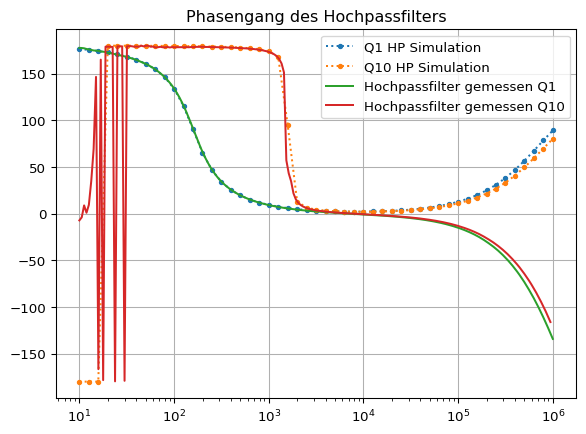
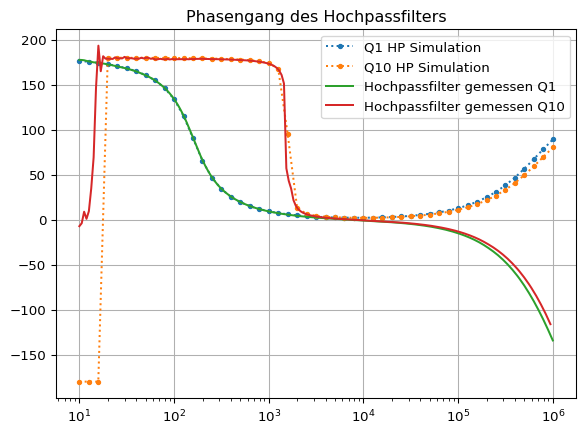
Erlich Formel Hinzugefügt

diff --git a/index.html b/index.html
@@ -2,7 +2,7 @@
 <html xmlns="http://www.w3.org/1999/xhtml" lang="de" xml:lang="de"><head>
 
 <meta charset="utf-8">
-<meta name="generator" content="quarto-1.7.31">
+<meta name="generator" content="quarto-1.7.24">
 
 <meta name="viewport" content="width=device-width, initial-scale=1.0, user-scalable=yes">
 
@@ -88,10 +88,10 @@ div.csl-indent {
 <script src="index_files/libs/quarto-html/tippy.umd.min.js"></script>
 <script src="index_files/libs/quarto-html/anchor.min.js"></script>
 <link href="index_files/libs/quarto-html/tippy.css" rel="stylesheet">
-<link href="index_files/libs/quarto-html/quarto-syntax-highlighting-e1a5c8363afafaef2c763b6775fbf3ca.css" rel="stylesheet" id="quarto-text-highlighting-styles">
+<link href="index_files/libs/quarto-html/quarto-syntax-highlighting-a37c72dd2dbac68997fcdc15a3622e78.css" rel="stylesheet" id="quarto-text-highlighting-styles">
 <script src="index_files/libs/bootstrap/bootstrap.min.js"></script>
 <link href="index_files/libs/bootstrap/bootstrap-icons.css" rel="stylesheet">
-<link href="index_files/libs/bootstrap/bootstrap-dc44167a0b6d28f4847139e5925e902e.min.css" rel="stylesheet" append-hash="true" id="quarto-bootstrap" data-mode="light">
+<link href="index_files/libs/bootstrap/bootstrap-63053770681cd859736509ad0a841bee.min.css" rel="stylesheet" append-hash="true" id="quarto-bootstrap" data-mode="light">
 
   <script src="https://cdnjs.cloudflare.com/polyfill/v3/polyfill.min.js?features=es6"></script>
   <script src="https://cdn.jsdelivr.net/npm/mathjax@3/es5/tex-chtml-full.js" type="text/javascript"></script>
@@ -170,7 +170,7 @@ window.Quarto = {
     <div>
     <div class="quarto-title-meta-heading">Veröffentlichungsdatum</div>
     <div class="quarto-title-meta-contents">
-      <p class="date">14. Juni 2025</p>
+      <p class="date">17. Juni 2025</p>
     </div>
   </div>
   
@@ -232,7 +232,92 @@ window.Quarto = {
 <h1 data-number="3"><span class="header-section-number">3</span> Filter-Entwurf</h1>
 <section id="herleitung-der-übertragungsfunktion-des-biquad-filters" class="level2" data-number="3.1">
 <h2 data-number="3.1" class="anchored" data-anchor-id="herleitung-der-übertragungsfunktion-des-biquad-filters"><span class="header-section-number">3.1</span> Herleitung der Übertragungsfunktion des Biquad Filters</h2>
-<p>TODO: Wolte Erlich machen</p>
+<p>In der oberen Schaltung aus Kicad sind die blauen Spannungen , die sie für uns interessant sind.</p>
+<p>Die KHN-Struktur liefert vier Ausgänge: Hochpass ( V_{01}(s) ), Bandpass ( V_{02}(s) ) , Tiefpass ( V_{03}(s) ) und Bandsperre ( V_{04}(s) ).</p>
+<p>Ziel ist die Herleitung der Hochpass-Übertragungsfunktion:</p>
+<p><span class="math display">\[\begin{equation}
+H_{LP}(s) = \frac{V_{01}(s)}{V_{i}(s)}
+\label{eq:HLP_def}
+\end{equation}\]</span></p>
+<p>Die Struktur besteht aus 2 Integratoren und 2 invertierenden Addierern . Daraus kann man folgende grundlegende Formeln herleiten :</p>
+<p><span class="math display">\[\begin{equation}
+V_{02}(s) = \frac{-1}{sRC} \cdot V_{01}(s)
+\label{eq:0P1}
+\end{equation}\]</span></p>
+<p><span class="math display">\[\begin{equation}
+V_{03}(s) = \frac{-1}{sRC} \cdot V_{02}(s)
+\label{eq:0P2}
+\end{equation}\]</span></p>
+<p><span class="math display">\[\begin{equation}
+V_{01}(s) = \frac{-R}{R} \cdot (V_{03}(s)+ V_{04}(s) ) = - (V_{03}(s)+ V_{04}(s) )
+\label{eq:0P3}
+\end{equation}\]</span></p>
+<p><span class="math display">\[\begin{equation}
+V_{04}(s) = \frac{-R}{R} \cdot ( \frac{V_{02}(s)}{Q} + V_{i}(s)\cdot H_{0} ) = - ( \frac{V_{02}(s)}{Q} + V_{i}(s)\cdot H_{0} )
+\label{eq:0P4}
+\end{equation}\]</span></p>
+<p>Im nächsten Schritt wollen wir die Gleichungen ineinander einsetzen :</p>
+<p>Nun setzen wir <span class="math inline">\(\eqref{eq:0P1}\)</span> in <span class="math inline">\(\eqref{eq:0P2}\)</span> ein:</p>
+<p><span class="math inline">\(\eqref{eq:0P1}\)</span> in <span class="math inline">\(\eqref{eq:0P2}\)</span> $ $ <span class="math display">\[\begin{equation}
+V_{03}(s) = \frac{1}{(sRC)^2} \cdot V_{01}(s)
+\label{eq:0P5}
+\end{equation}\]</span></p>
+<p><span class="math inline">\(\eqref{eq:0P2}\)</span> in <span class="math inline">\(\eqref{eq:0P3}\)</span> $ $ <span class="math display">\[\begin{equation}
+V_{01}(s) = - \left( V_{01}\cdot  \frac{1}{(sRC)^2} +  V_{04} \right)
+\label{eq:0P6}
+\end{equation}\]</span></p>
+<p><span class="math inline">\(\eqref{eq:0P1}\)</span> in <span class="math inline">\(\eqref{eq:0P4}\)</span> $ $</p>
+<p><span class="math display">\[\begin{equation}
+V_{04}(s) = -  ( \frac{\frac{-1}{sRC}}{Q} + V_{i}(s)\cdot H_{0} )
+\label{eq:0P7}
+\end{equation}\]</span></p>
+<p><span class="math inline">\(\eqref{eq:0P6}\)</span> $ $ <span class="math display">\[\begin{equation}
+V_{04}(s) = -V_{01} \left( 1 +  \frac{1}{(sRC)^2}  \right)
+\label{eq:0P8}
+\end{equation}\]</span></p>
+<p><span class="math inline">\(\eqref{eq:0P7}\)</span> und <span class="math inline">\(\eqref{eq:0P8}\)</span> $ $ <span class="math display">\[\begin{equation}
+V_{01}(s) \cdot \frac{1}{sRCQ} - H_{0}\cdot V_{i} = -V_{01} \left( 1 +  \frac{1}{(sRC)^2}  \right)
+\label{eq:0P9}
+\end{equation}\]</span></p>
+<p>$ $</p>
+<p><span class="math display">\[\begin{equation}
+    V_{01} \left( 1 +  \frac{1}{(sRC)^2} + \frac{1}{sRCQ}  \right)  = H_{0}\cdot V_{i}
+\label{eq:0P9}
+\end{equation}\]</span></p>
+<p>$ $</p>
+<p><span class="math display">\[\begin{equation}
+    \frac{V_{01}}{V_{i}} = \frac{H_{0}}{\left( 1 +  \frac{1}{(sRC)^2} + \frac{1}{sRCQ}  \right)  }
+\label{eq:0P10}
+\end{equation}\]</span></p>
+<p>Da <span class="math inline">\(\omega_{0} = \frac{1}{RC}\)</span> ergibt sich :</p>
+<p><span class="math display">\[\begin{equation}
+    \frac{V_{01}}{V_{i}} = \frac{H_{0}}{\left( 1 +  \frac{ (\omega_{0})^2 }{(s^2}  + \frac{\omega_{0}}{s\cdot Q}  \right)  }
+\label{eq:0P11}
+\end{equation}\]</span></p>
+<p>Multipliziert man mit <span class="math inline">\(s^2\)</span> ergibt sich : <span class="math display">\[\begin{equation}
+    \frac{V_{01}}{V_{i}} = \frac{H_{0} \cdot(s^2)}{\left( s^2 +  \omega_{0}^2  + \omega_{0} \frac{s}{Q} \right)  }
+\label{eq:0P12}
+\end{equation}\]</span> Teilt man oben und unten durch <span class="math inline">\(\omega_{0}^2\)</span> ergibt sich endlich :</p>
+<p><span class="math display">\[\begin{equation}
+    \frac{V_{01}}{V_{i}} = \frac{H_{0} \frac{s^2}{\omega_{0}^2}}{\left( \frac{s^2}{\omega_{0}^2}  +  1  + \frac{s}{ \omega_{0} \cdot Q }  \right)  }
+\label{eq:0P13}
+\end{equation}\]</span></p>
+<p>was die gesuchte Übertragungsfunktion darstellt.</p>
+<p>Verfährt man auf eine ähnliche Art und Weise gelangt man auch zu den anderen Übertragungsfunktionen für den Tiefpass , den Bandpass und die Bandsperre :</p>
+<p>Für den Bandpass : <span class="math display">\[\begin{equation}
+    \frac{V_{02}}{V_{i}} = \frac{H_{0} \frac{s}{\omega_{0}}}{\left( \frac{s^2}{\omega_{0}^2}  +  1  + \frac{s}{ \omega_{0} \cdot Q }  \right)  }
+\label{eq:0P14}
+\end{equation}\]</span></p>
+<p>Für den Tiefpass :</p>
+<p><span class="math display">\[\begin{equation}
+    \frac{V_{03}}{V_{i}} = \frac{H_{0}}{\left( \frac{s^2}{\omega_{0}^2}  +  1  + \frac{s}{ \omega_{0} \cdot Q }  \right)  }
+\label{eq:0P15}
+\end{equation}\]</span></p>
+<p>und für die Bandsperre :</p>
+<p><span class="math display">\[\begin{equation}
+    \frac{V_{04}}{V_{i}} = \frac{H_{0} \cdot(1 + \frac{s^2}{\omega_{0}^2})}{\left( \frac{s^2}{\omega_{0}^2}  +  1  + \frac{s}{ \omega_{0} \cdot Q }  \right)  }
+\label{eq:0P13}
+\end{equation}\]</span></p>
 </section>
 <section id="herleitung-der-übertragungsfunktion-tiefpassfilter-dritter-ordnung" class="level2" data-number="3.2">
 <h2 data-number="3.2" class="anchored" data-anchor-id="herleitung-der-übertragungsfunktion-tiefpassfilter-dritter-ordnung"><span class="header-section-number">3.2</span> Herleitung der Übertragungsfunktion Tiefpassfilter dritter Ordnung</h2>
@@ -249,6 +334,7 @@ window.Quarto = {
 <p><span class="math inline">\(H_{BW3}(s) = \frac{H_0 \cdot (\omega_0)^3}{s^3 + s^2(\omega_0+\frac{\omega_0}{Q})+s(\frac{(\omega_0)^2}{Q}+(\omega_0)^2) +(\omega_0)^3}\)</span></p>
 <p>Um diese Gewünschte Übertragungsfunktion zu erhalten muss der Term … an den Tiefpassfilter in der Schaltung dazu geschaltet werden. Der Term… wird mit der Übertragungsfunktion … Realisiert die daraus Resuliertende schaltung und die Gesammtschaltung ist in Abbildung… gezeigt.</p>
 <p><span class="math inline">\(\frac{\omega_0}{\omega_0 +s} = -\frac{R_2}{R_1} \cdot \frac{\frac{1}{R_{com} \cdot C_{com}}}{R_{com} \cdot C_{com} +s} \cdot -\frac{R_2}{R_1}\)</span></p>
+<p>\begin{}</p>
 </section>
 </section>
 <section id="messautomatisierung" class="level1" data-number="4">
@@ -259,7 +345,7 @@ window.Quarto = {
 <!-- [Biquadschaltung](../images/Biquadschaltung.png){#fig-map}
 
 Die in **Abbildung 1**  gezeigt schaltung wird in diesem Abschnit der Dokumentation behandelt. Es handelt sich hierbei um ein Universellen Biquad Filter welcher 4 Filter Typen in einem Realisiert. Eine wichtiger Parameter von Filtern ist die Güte dies lässt sich mit dem Widerstand R5 einstellen. Bei steigender güte sinkt je nach Filter Type entweder die Bandbreite z.B. beim Notchfilter (bandsperre) oder beim Bandpass und beim Tiefpassfilter bzw Hochapssfilter die Übergangsfrequenz sprich die breite.-->
-<div id="f9989021" class="cell" data-execution_count="1">
+<div id="dbab0ec5" class="cell" data-execution_count="1">
 <details class="code-fold">
 <summary>Code anzeigen</summary>
 <div class="sourceCode cell-code" id="cb1"><pre class="sourceCode python code-with-copy"><code class="sourceCode python"><span id="cb1-1"><a href="#cb1-1" aria-hidden="true" tabindex="-1"></a><span class="im">import</span> matplotlib.pyplot <span class="im">as</span> plt</span>
@@ -268,7 +354,7 @@ Die in **Abbildung 1**  gezeigt schaltung wird in diesem Abschnit der Dokumentat
 <span id="cb1-4"><a href="#cb1-4" aria-hidden="true" tabindex="-1"></a><span class="im">import</span> pandas <span class="im">as</span> pd</span></code><button title="In die Zwischenablage kopieren" class="code-copy-button"><i class="bi"></i></button></pre></div>
 </details>
 </div>
-<div id="317bcb1d" class="cell" data-execution_count="2">
+<div id="02ae976a" class="cell" data-execution_count="2">
 <details class="code-fold">
 <summary>Code anzeigen</summary>
 <div class="sourceCode cell-code" id="cb2"><pre class="sourceCode python code-with-copy"><code class="sourceCode python"><span id="cb2-1"><a href="#cb2-1" aria-hidden="true" tabindex="-1"></a><span class="co"># Messwerte Tiefpassfilter mit Q1</span></span>
@@ -320,7 +406,7 @@ Die in **Abbildung 1**  gezeigt schaltung wird in diesem Abschnit der Dokumentat
 <span id="cb2-47"><a href="#cb2-47" aria-hidden="true" tabindex="-1"></a>phaseBSFQ10 <span class="op">=</span> np.array(dfBSFQ10[<span class="st">' Phase [deg]'</span>])</span></code><button title="In die Zwischenablage kopieren" class="code-copy-button"><i class="bi"></i></button></pre></div>
 </details>
 </div>
-<div id="00532eaa" class="cell" data-execution_count="3">
+<div id="4d2590a1" class="cell" data-execution_count="3">
 <details class="code-fold">
 <summary>Code anzeigen</summary>
 <div class="sourceCode cell-code" id="cb3"><pre class="sourceCode python code-with-copy"><code class="sourceCode python"><span id="cb3-1"><a href="#cb3-1" aria-hidden="true" tabindex="-1"></a><span class="co"># -----------------------------------Einladen der Simulations Werte -----------------------------------------</span></span>
@@ -350,7 +436,7 @@ Die in **Abbildung 1**  gezeigt schaltung wird in diesem Abschnit der Dokumentat
 </div>
 <section id="tiefpassfilter" class="level2" data-number="5.1">
 <h2 data-number="5.1" class="anchored" data-anchor-id="tiefpassfilter"><span class="header-section-number">5.1</span> Tiefpassfilter</h2>
-<div id="3749f138" class="cell" data-execution_count="4">
+<div id="46163deb" class="cell" data-execution_count="4">
 <details class="code-fold">
 <summary>Code anzeigen</summary>
 <div class="sourceCode cell-code" id="cb4"><pre class="sourceCode python code-with-copy"><code class="sourceCode python"><span id="cb4-1"><a href="#cb4-1" aria-hidden="true" tabindex="-1"></a>plt.figure(<span class="st">"Amplitudengang des Tiefpass filters"</span>)</span>
@@ -383,7 +469,7 @@ Die in **Abbildung 1**  gezeigt schaltung wird in diesem Abschnit der Dokumentat
 <section id="spezielle-effekte-bei-hohen-frequenzen" class="level3" data-number="5.1.3">
 <h3 data-number="5.1.3" class="anchored" data-anchor-id="spezielle-effekte-bei-hohen-frequenzen"><span class="header-section-number">5.1.3</span> Spezielle Effekte bei hohen Frequenzen</h3>
 <p>Bei Frequenzen deutlich über der Grenzfrequenz kommen zusätzliche Effekte zum Tragen: - Die Filtersteilheit realer Filter kann von den theoretischen abweichen. - Belastungseffekte durch nachfolgeden Stufen verändern die Filtercharakteristik. Wenn beispielsweise ein Hochpass an einen Tiefpass angeschlossen wird, verändert sich das Übertragungsverhalten durch die Parallelschaltung. Diese Beobachtungen decken sich mit der Grafik, die deutliche Unterschiede zwischen Suimulation und Messung im Breich ab 10kHz zeigt, insbesondere bei der Tiefe der Dämpfungskurve und dem erneuten Anstieg bei sehr hohen Frequenzen.</p>
-<div id="455b91ef" class="cell" data-execution_count="5">
+<div id="eeb0a1d4" class="cell" data-execution_count="5">
 <details class="code-fold">
 <summary>Code anzeigen</summary>
 <div class="sourceCode cell-code" id="cb5"><pre class="sourceCode python code-with-copy"><code class="sourceCode python"><span id="cb5-1"><a href="#cb5-1" aria-hidden="true" tabindex="-1"></a>plt.figure(<span class="st">"Phasengang des Tiefpass filters"</span>)</span>
@@ -409,7 +495,7 @@ Die in **Abbildung 1**  gezeigt schaltung wird in diesem Abschnit der Dokumentat
 </section>
 <section id="hochpassfilter" class="level2" data-number="5.2">
 <h2 data-number="5.2" class="anchored" data-anchor-id="hochpassfilter"><span class="header-section-number">5.2</span> Hochpassfilter</h2>
-<div id="c8d4ffe6" class="cell" data-execution_count="6">
+<div id="0ef93a87" class="cell" data-execution_count="6">
 <details class="code-fold">
 <summary>Code anzeigen</summary>
 <div class="sourceCode cell-code" id="cb6"><pre class="sourceCode python code-with-copy"><code class="sourceCode python"><span id="cb6-1"><a href="#cb6-1" aria-hidden="true" tabindex="-1"></a>plt.figure(<span class="st">"Amplitudengang des Hochpassfilters"</span>)</span>
@@ -438,19 +524,20 @@ Die in **Abbildung 1**  gezeigt schaltung wird in diesem Abschnit der Dokumentat
 <section id="dokumentierte-abweichungen-1" class="level3" data-number="5.2.2">
 <h3 data-number="5.2.2" class="anchored" data-anchor-id="dokumentierte-abweichungen-1"><span class="header-section-number">5.2.2</span> Dokumentierte Abweichungen</h3>
 <p>Im angezeigten Amplitudengang des Hochpassfilters sind mehrere charakteristische Abweichungen erkennbar: - Starker Einbruch bei Q1-Messung: Die rote Linie (gemessener Q1-Hochpass) zeigt bei etwa 20-30 Hz einen markanten Einbruch auf fast -110 dB, der in der Simulation nicht vorkommt. Dies deutet auf resonante Effekte zwischen den realen Bauteilen hin - Flacherer Anstieg bei niedrigen Frequenzen: Der Anstieg der gemessenen Kurven (rot und grün) ist bei sehr niedrigen Frequenzen weniger steil als bei den simulierten Kurven, was auf die nicht-idealen Eigenschaften der Bauelemente zurückzuführen ist - Überschwingen im Übergangsbereich: Im Bereich um 1000 Hz zeigt insbesondere die Q10-Simulation (orange) ein deutliches Überschwingen, das beim Q10-Wert mit seiner steileren Flankensteilheit zu erwarten ist</p>
-<div id="8316fc57" class="cell" data-execution_count="7">
+<div id="e71e91d0" class="cell" data-execution_count="7">
 <details class="code-fold">
 <summary>Code anzeigen</summary>
 <div class="sourceCode cell-code" id="cb7"><pre class="sourceCode python code-with-copy"><code class="sourceCode python"><span id="cb7-1"><a href="#cb7-1" aria-hidden="true" tabindex="-1"></a>plt.figure(<span class="st">"Phasengang des Hochpassfilters"</span>)</span>
 <span id="cb7-2"><a href="#cb7-2" aria-hidden="true" tabindex="-1"></a>plt.title(<span class="st">"Phasengang des Hochpassfilters"</span>)</span>
 <span id="cb7-3"><a href="#cb7-3" aria-hidden="true" tabindex="-1"></a>plt.plot(f1,np.degrees(np.angle(Vhpf1)),<span class="st">".:"</span>,label<span class="op">=</span><span class="st">"Q1 HP Simulation"</span>)</span>
 <span id="cb7-4"><a href="#cb7-4" aria-hidden="true" tabindex="-1"></a>plt.plot(f2,np.degrees(np.angle(Vhpf10)),<span class="st">".:"</span>,label<span class="op">=</span><span class="st">"Q10 HP Simulation"</span>)</span>
-<span id="cb7-5"><a href="#cb7-5" aria-hidden="true" tabindex="-1"></a>plt.plot(fHPFQ1,phaseHPFQ1,label<span class="op">=</span><span class="st">'Hochpassfilter gemessen Q1'</span>)</span>
-<span id="cb7-6"><a href="#cb7-6" aria-hidden="true" tabindex="-1"></a>plt.plot(fHPFQ10,phaseHPFQ10,label<span class="op">=</span><span class="st">'Hochpassfilter gemessen Q10'</span>)</span>
-<span id="cb7-7"><a href="#cb7-7" aria-hidden="true" tabindex="-1"></a>plt.xscale(<span class="st">'log'</span>)</span>
-<span id="cb7-8"><a href="#cb7-8" aria-hidden="true" tabindex="-1"></a>plt.grid()</span>
-<span id="cb7-9"><a href="#cb7-9" aria-hidden="true" tabindex="-1"></a>plt.legend()</span>
-<span id="cb7-10"><a href="#cb7-10" aria-hidden="true" tabindex="-1"></a>plt.show()</span></code><button title="In die Zwischenablage kopieren" class="code-copy-button"><i class="bi"></i></button></pre></div>
+<span id="cb7-5"><a href="#cb7-5" aria-hidden="true" tabindex="-1"></a>plt.plot(fHPFQ1,np.rad2deg(np.unwrap(np.deg2rad(phaseHPFQ1))),label<span class="op">=</span><span class="st">'Hochpassfilter gemessen Q1'</span>)</span>
+<span id="cb7-6"><a href="#cb7-6" aria-hidden="true" tabindex="-1"></a><span class="co">#plt.plot(fHPFQ10,phaseHPFQ10,label='Hochpassfilter gemessen Q10')</span></span>
+<span id="cb7-7"><a href="#cb7-7" aria-hidden="true" tabindex="-1"></a>plt.plot(fHPFQ10,np.rad2deg(np.unwrap(np.deg2rad(phaseHPFQ10))),label<span class="op">=</span><span class="st">'Hochpassfilter gemessen Q10'</span>)</span>
+<span id="cb7-8"><a href="#cb7-8" aria-hidden="true" tabindex="-1"></a>plt.xscale(<span class="st">'log'</span>)</span>
+<span id="cb7-9"><a href="#cb7-9" aria-hidden="true" tabindex="-1"></a>plt.grid()</span>
+<span id="cb7-10"><a href="#cb7-10" aria-hidden="true" tabindex="-1"></a>plt.legend()</span>
+<span id="cb7-11"><a href="#cb7-11" aria-hidden="true" tabindex="-1"></a>plt.show()</span></code><button title="In die Zwischenablage kopieren" class="code-copy-button"><i class="bi"></i></button></pre></div>
 </details>
 <div class="cell-output cell-output-display">
 <div>
@@ -464,7 +551,7 @@ Die in **Abbildung 1**  gezeigt schaltung wird in diesem Abschnit der Dokumentat
 </section>
 <section id="bandpassfilter" class="level2" data-number="5.3">
 <h2 data-number="5.3" class="anchored" data-anchor-id="bandpassfilter"><span class="header-section-number">5.3</span> Bandpassfilter</h2>
-<div id="280f3172" class="cell" data-execution_count="8">
+<div id="54f58be8" class="cell" data-execution_count="8">
 <details class="code-fold">
 <summary>Code anzeigen</summary>
 <div class="sourceCode cell-code" id="cb8"><pre class="sourceCode python code-with-copy"><code class="sourceCode python"><span id="cb8-1"><a href="#cb8-1" aria-hidden="true" tabindex="-1"></a>plt.figure(<span class="st">"Amplitudengang des Bandpassfilters"</span>)</span>
@@ -486,7 +573,7 @@ Die in **Abbildung 1**  gezeigt schaltung wird in diesem Abschnit der Dokumentat
 </div>
 </div>
 </div>
-<div id="b8aff8b0" class="cell" data-execution_count="9">
+<div id="7c650a53" class="cell" data-execution_count="9">
 <details class="code-fold">
 <summary>Code anzeigen</summary>
 <div class="sourceCode cell-code" id="cb9"><pre class="sourceCode python code-with-copy"><code class="sourceCode python"><span id="cb9-1"><a href="#cb9-1" aria-hidden="true" tabindex="-1"></a>plt.figure(<span class="st">"Phasengang des Bandpassfilters"</span>)</span>
@@ -511,7 +598,7 @@ Die in **Abbildung 1**  gezeigt schaltung wird in diesem Abschnit der Dokumentat
 </section>
 <section id="bandstopfilter" class="level2" data-number="5.4">
 <h2 data-number="5.4" class="anchored" data-anchor-id="bandstopfilter"><span class="header-section-number">5.4</span> Bandstopfilter</h2>
-<div id="31c05c8f" class="cell" data-execution_count="10">
+<div id="6bfa1792" class="cell" data-execution_count="10">
 <details class="code-fold">
 <summary>Code anzeigen</summary>
 <div class="sourceCode cell-code" id="cb10"><pre class="sourceCode python code-with-copy"><code class="sourceCode python"><span id="cb10-1"><a href="#cb10-1" aria-hidden="true" tabindex="-1"></a>plt.figure(<span class="st">"Amplitudengang des Bandstopfilters"</span>)</span>
@@ -533,7 +620,7 @@ Die in **Abbildung 1**  gezeigt schaltung wird in diesem Abschnit der Dokumentat
 </div>
 </div>
 </div>
-<div id="315f546e" class="cell" data-execution_count="11">
+<div id="4657b071" class="cell" data-execution_count="11">
 <details class="code-fold">
 <summary>Code anzeigen</summary>
 <div class="sourceCode cell-code" id="cb11"><pre class="sourceCode python code-with-copy"><code class="sourceCode python"><span id="cb11-1"><a href="#cb11-1" aria-hidden="true" tabindex="-1"></a>plt.figure(<span class="st">"Phasengang des Bandstopfilters"</span>)</span>
@@ -557,7 +644,7 @@ Die in **Abbildung 1**  gezeigt schaltung wird in diesem Abschnit der Dokumentat
 </div>
 <!--### Grenzfreqeunz Funktion für unterschiedliche Kapazitätswerte bei gleichbleibendem Widerstand
 
-::: {#4e049d90 .cell execution_count=12}
+::: {#e6a0c2fa .cell execution_count=12}
 ``` {.python .cell-code}
 Rcom = 1e3
 Ccom = np.linspace(1e-12,1e-6,10000)
@@ -575,7 +662,7 @@ plt.xscale('log')
 
 ::: {.cell-output .cell-output-stderr}
 ```
-/tmp/ipykernel_60895/460434748.py:9: UserWarning: No artists with labels found to put in legend.  Note that artists whose label start with an underscore are ignored when legend() is called with no argument.
+/tmp/ipykernel_24457/460434748.py:9: UserWarning: No artists with labels found to put in legend.  Note that artists whose label start with an underscore are ignored when legend() is called with no argument.
   plt.legend()
 ```
 :::
@@ -592,7 +679,7 @@ plt.xscale('log')
 </section>
 <section id="butterworthfilter" class="level1" data-number="6">
 <h1 data-number="6"><span class="header-section-number">6</span> Butterworthfilter</h1>
-<div id="8615b232" class="cell" data-execution_count="13">
+<div id="9b903e21" class="cell" data-execution_count="13">
 <details class="code-fold">
 <summary>Code anzeigen</summary>
 <div class="sourceCode cell-code" id="cb12"><pre class="sourceCode python code-with-copy"><code class="sourceCode python"><span id="cb12-1"><a href="#cb12-1" aria-hidden="true" tabindex="-1"></a><span class="co"># Einladen der Messwerte</span></span>
@@ -615,7 +702,7 @@ plt.xscale('log')
 <span id="cb12-18"><a href="#cb12-18" aria-hidden="true" tabindex="-1"></a>phase001uf <span class="op">=</span> np.array(Butter001uF[<span class="st">' Phase [deg]'</span>])</span></code><button title="In die Zwischenablage kopieren" class="code-copy-button"><i class="bi"></i></button></pre></div>
 </details>
 </div>
-<div id="102bc4a3" class="cell" data-execution_count="14">
+<div id="5d559f4f" class="cell" data-execution_count="14">
 <details class="code-fold">
 <summary>Code anzeigen</summary>
 <div class="sourceCode cell-code" id="cb13"><pre class="sourceCode python code-with-copy"><code class="sourceCode python"><span id="cb13-1"><a href="#cb13-1" aria-hidden="true" tabindex="-1"></a><span class="co"># Einladen der Simuliertenwerte</span></span>
@@ -659,7 +746,7 @@ plt.xscale('log')
 <span id="cb13-39"><a href="#cb13-39" aria-hidden="true" tabindex="-1"></a>Vout001u  <span class="op">=</span> l5.get_data(<span class="st">'v(Vout)'</span>) </span></code><button title="In die Zwischenablage kopieren" class="code-copy-button"><i class="bi"></i></button></pre></div>
 </details>
 </div>
-<div id="93112e53" class="cell" data-execution_count="15">
+<div id="a005dac1" class="cell" data-execution_count="15">
 <details class="code-fold">
 <summary>Code anzeigen</summary>
 <div class="sourceCode cell-code" id="cb14"><pre class="sourceCode python code-with-copy"><code class="sourceCode python"><span id="cb14-1"><a href="#cb14-1" aria-hidden="true" tabindex="-1"></a><span class="co"># Einladen der Theorehtischen werte aus der Übertragungsfunktion</span></span>
@@ -686,7 +773,7 @@ plt.xscale('log')
 <h2 data-number="6.1" class="anchored" data-anchor-id="plot-und-vergleich"><span class="header-section-number">6.1</span> Plot und Vergleich:</h2>
 <section id="butterworth-1uf" class="level3" data-number="6.1.1">
 <h3 data-number="6.1.1" class="anchored" data-anchor-id="butterworth-1uf"><span class="header-section-number">6.1.1</span> Butterworth 1uF</h3>
-<div id="84ccadff" class="cell" data-execution_count="16">
+<div id="a382908f" class="cell" data-execution_count="16">
 <details class="code-fold">
 <summary>Code anzeigen</summary>
 <div class="sourceCode cell-code" id="cb15"><pre class="sourceCode python code-with-copy"><code class="sourceCode python"><span id="cb15-1"><a href="#cb15-1" aria-hidden="true" tabindex="-1"></a>plt.figure(<span class="st">"Amplitudengang Butterworth TP 1uF"</span>)</span>
@@ -707,7 +794,7 @@ plt.xscale('log')
 </div>
 </div>
 </div>
-<div id="6df0e481" class="cell" data-execution_count="17">
+<div id="dd64a4e0" class="cell" data-execution_count="17">
 <details class="code-fold">
 <summary>Code anzeigen</summary>
 <div class="sourceCode cell-code" id="cb16"><pre class="sourceCode python code-with-copy"><code class="sourceCode python"><span id="cb16-1"><a href="#cb16-1" aria-hidden="true" tabindex="-1"></a>plt.figure(<span class="st">"Phasengang Butterworth TP 1uF"</span>)</span>
@@ -731,7 +818,7 @@ plt.xscale('log')
 </section>
 <section id="butterworthfilter-0.1uf" class="level3" data-number="6.1.2">
 <h3 data-number="6.1.2" class="anchored" data-anchor-id="butterworthfilter-0.1uf"><span class="header-section-number">6.1.2</span> Butterworthfilter 0.1uF</h3>
-<div id="d74369e5" class="cell" data-execution_count="18">
+<div id="82acda23" class="cell" data-execution_count="18">
 <details class="code-fold">
 <summary>Code anzeigen</summary>
 <div class="sourceCode cell-code" id="cb17"><pre class="sourceCode python code-with-copy"><code class="sourceCode python"><span id="cb17-1"><a href="#cb17-1" aria-hidden="true" tabindex="-1"></a>plt.figure(<span class="st">"Amplitudengang Butterworth TP 0.1uF"</span>)</span>
@@ -752,7 +839,7 @@ plt.xscale('log')
 </div>
 </div>
 </div>
-<div id="857eb535" class="cell" data-execution_count="19">
+<div id="bfe21af6" class="cell" data-execution_count="19">
 <details class="code-fold">
 <summary>Code anzeigen</summary>
 <div class="sourceCode cell-code" id="cb18"><pre class="sourceCode python code-with-copy"><code class="sourceCode python"><span id="cb18-1"><a href="#cb18-1" aria-hidden="true" tabindex="-1"></a>plt.figure(<span class="st">"Phasengang Butterworth TP 0.1uF"</span>)</span>
@@ -776,7 +863,7 @@ plt.xscale('log')
 </section>
 <section id="butterworthfilter-0.01uf" class="level3" data-number="6.1.3">
 <h3 data-number="6.1.3" class="anchored" data-anchor-id="butterworthfilter-0.01uf"><span class="header-section-number">6.1.3</span> Butterworthfilter 0.01uF</h3>
-<div id="263a1f0b" class="cell" data-execution_count="20">
+<div id="907d398c" class="cell" data-execution_count="20">
 <details class="code-fold">
 <summary>Code anzeigen</summary>
 <div class="sourceCode cell-code" id="cb19"><pre class="sourceCode python code-with-copy"><code class="sourceCode python"><span id="cb19-1"><a href="#cb19-1" aria-hidden="true" tabindex="-1"></a>plt.figure(<span class="st">"Amplitudengang Butterworth TP 0.01uF"</span>)</span>
@@ -797,7 +884,7 @@ plt.xscale('log')
 </div>
 </div>
 </div>
-<div id="1fd85da7" class="cell" data-execution_count="21">
+<div id="135b73a4" class="cell" data-execution_count="21">
 <details class="code-fold">
 <summary>Code anzeigen</summary>
 <div class="sourceCode cell-code" id="cb20"><pre class="sourceCode python code-with-copy"><code class="sourceCode python"><span id="cb20-1"><a href="#cb20-1" aria-hidden="true" tabindex="-1"></a>plt.figure(<span class="st">"Phasengang Butterworth TP 0.01uF"</span>)</span>
@@ -826,6 +913,9 @@ plt.xscale('log')
 </section>
 <section id="entwurf-der-pcb-schaltung" class="level1" data-number="7">
 <h1 data-number="7"><span class="header-section-number">7</span> Entwurf der PCB Schaltung</h1>
+</section>
+<section id="fazit" class="level1" data-number="8">
+<h1 data-number="8"><span class="header-section-number">8</span> Fazit</h1>
 </section>
 <section id="literaturverzeichnis" class="level1 unnumbered">
 <h1 class="unnumbered">Literaturverzeichnis</h1>
@@ -1334,7 +1424,8 @@ Baker, R. Jacob. 2010. <em><span>CMOS</span>: Circuit Design, Layout, and Simula
 <span id="cb21-42"><a href="#cb21-42" aria-hidden="true" tabindex="-1"></a>{{&lt; include content/_sec_BiquadFilterschaltung.qmd &gt;}}</span>
 <span id="cb21-43"><a href="#cb21-43" aria-hidden="true" tabindex="-1"></a>{{&lt; include content/_sec_Butterworth.qmd &gt;}}</span>
 <span id="cb21-44"><a href="#cb21-44" aria-hidden="true" tabindex="-1"></a>{{&lt; include content/_sec_PCB_Entwurf.qmd &gt;}}</span>
-<span id="cb21-45"><a href="#cb21-45" aria-hidden="true" tabindex="-1"></a>{{&lt; include content/references.qmd &gt;}}</span></code><button title="In die Zwischenablage kopieren" class="code-copy-button" data-in-quarto-modal=""><i class="bi"></i></button></pre></div>
+<span id="cb21-45"><a href="#cb21-45" aria-hidden="true" tabindex="-1"></a>{{&lt; include content/_sec_Fazit.qmd &gt;}}</span>
+<span id="cb21-46"><a href="#cb21-46" aria-hidden="true" tabindex="-1"></a>{{&lt; include content/references.qmd &gt;}}</span></code><button title="In die Zwischenablage kopieren" class="code-copy-button" data-in-quarto-modal=""><i class="bi"></i></button></pre></div>
 </div></div></div></div></div>
 </div> <!-- /content -->
 
